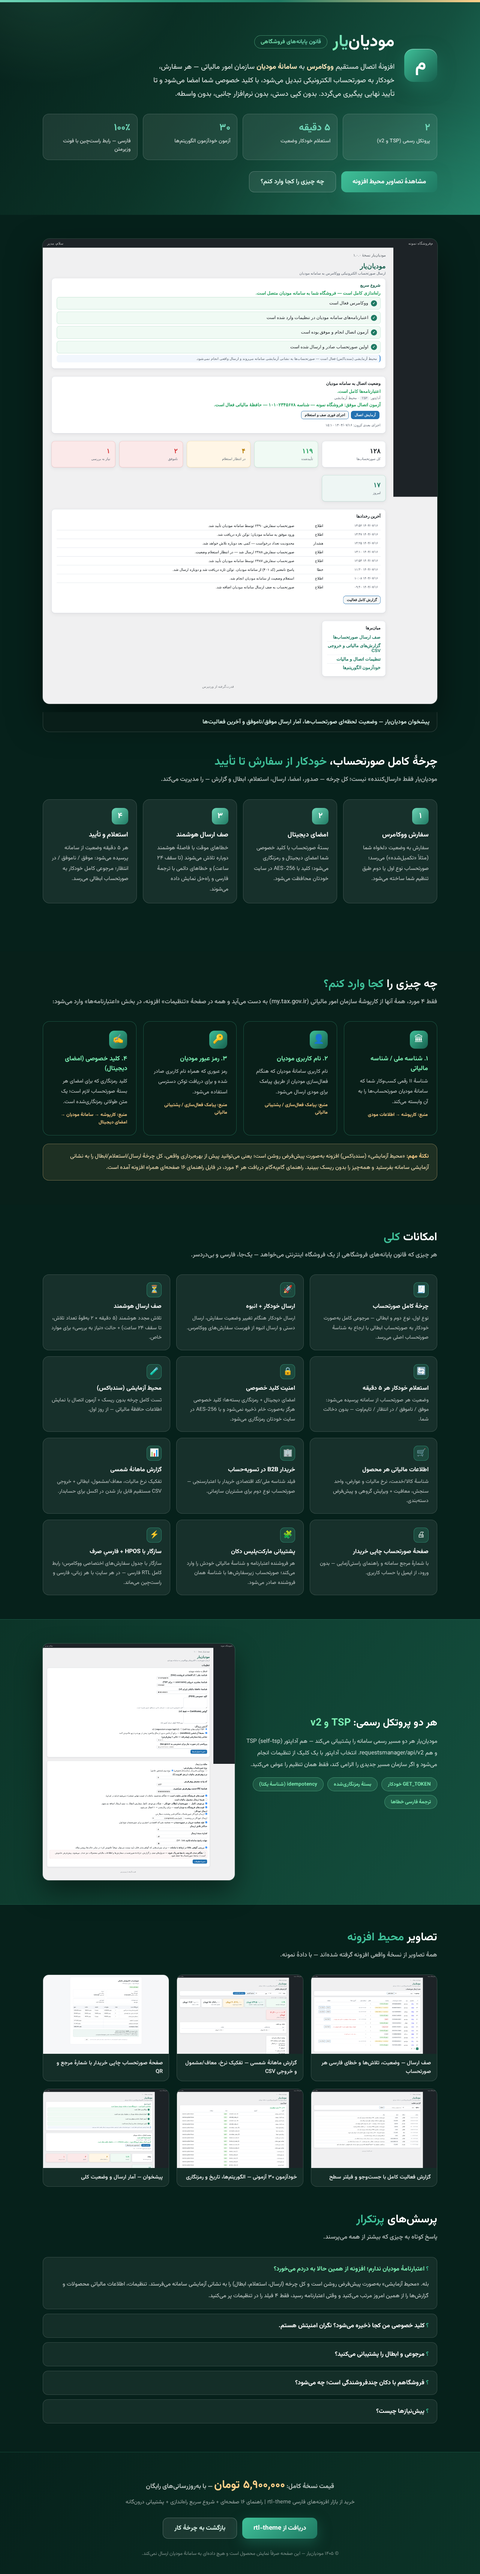
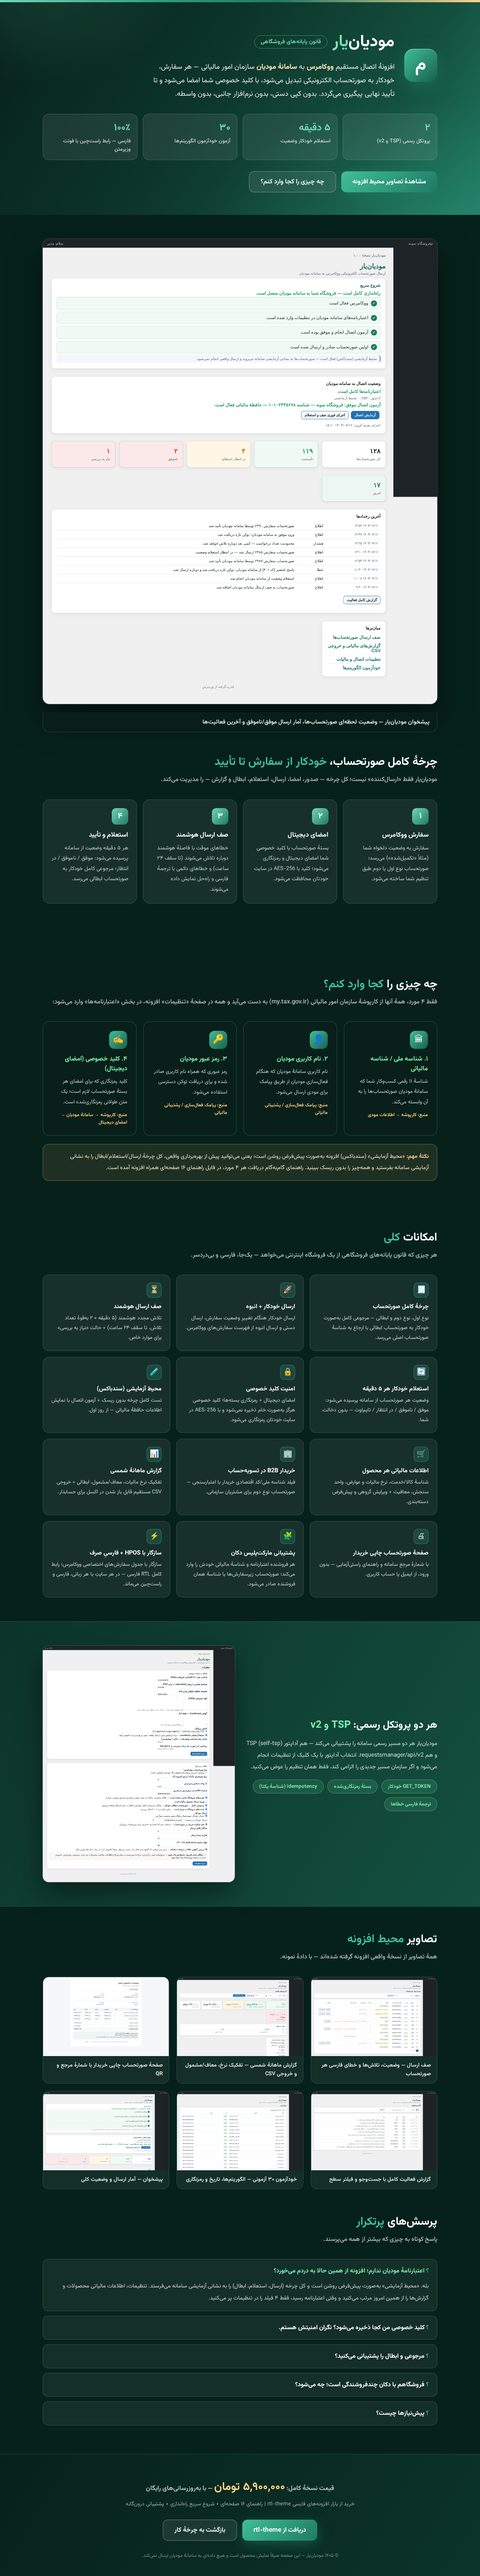
beauty pass: CTA/text contrast polish, refreshed gallery shots (accent-bar headings, darker table headers)

diff --git a/index.html b/index.html
@@ -44,8 +44,8 @@ body { font-family:'Vazirmatn', Tahoma, sans-serif; background:#06211b; color:#f
   font-size:17px; font-weight:700; text-decoration:none; cursor:pointer; border:none; font-family:inherit; }
 .btn-buy { background:linear-gradient(135deg,#3fbf98,#1f7a63); color:#fff; box-shadow:0 12px 34px rgba(31,122,99,.5); }
 .btn-buy:hover { filter:brightness(1.1); }
-.btn-ghost { background:rgba(255,255,255,.08); color:#dff5ec; border:1.5px solid rgba(255,255,255,.25); }
-.btn-ghost:hover { background:rgba(255,255,255,.14); }
+.btn-ghost { background:rgba(255,255,255,.08); color:#e8f7f0; border:1.5px solid rgba(255,255,255,.38); }
+.btn-ghost:hover { background:rgba(255,255,255,.16); }
 
 /* SECTIONS */
 section { padding:64px 0; }
@@ -89,7 +89,7 @@ section { padding:64px 0; }
 .feat .fi { width:40px; height:40px; border-radius:11px; background:rgba(63,191,152,.18); border:1.5px solid rgba(63,191,152,.45);
   display:flex; align-items:center; justify-content:center; font-size:20px; margin-bottom:12px; }
 .feat h3 { font-size:16px; font-weight:700; margin-bottom:6px; }
-.feat p { font-size:13.8px; line-height:1.85; color:rgba(255,255,255,.72); }
+.feat p { font-size:14px; line-height:1.85; color:rgba(255,255,255,.78); }
 
 /* HIGHLIGHT BAND */
 .band { background:linear-gradient(122deg,#0c3428,#14503f); border-top:1.5px solid rgba(63,191,152,.25);
